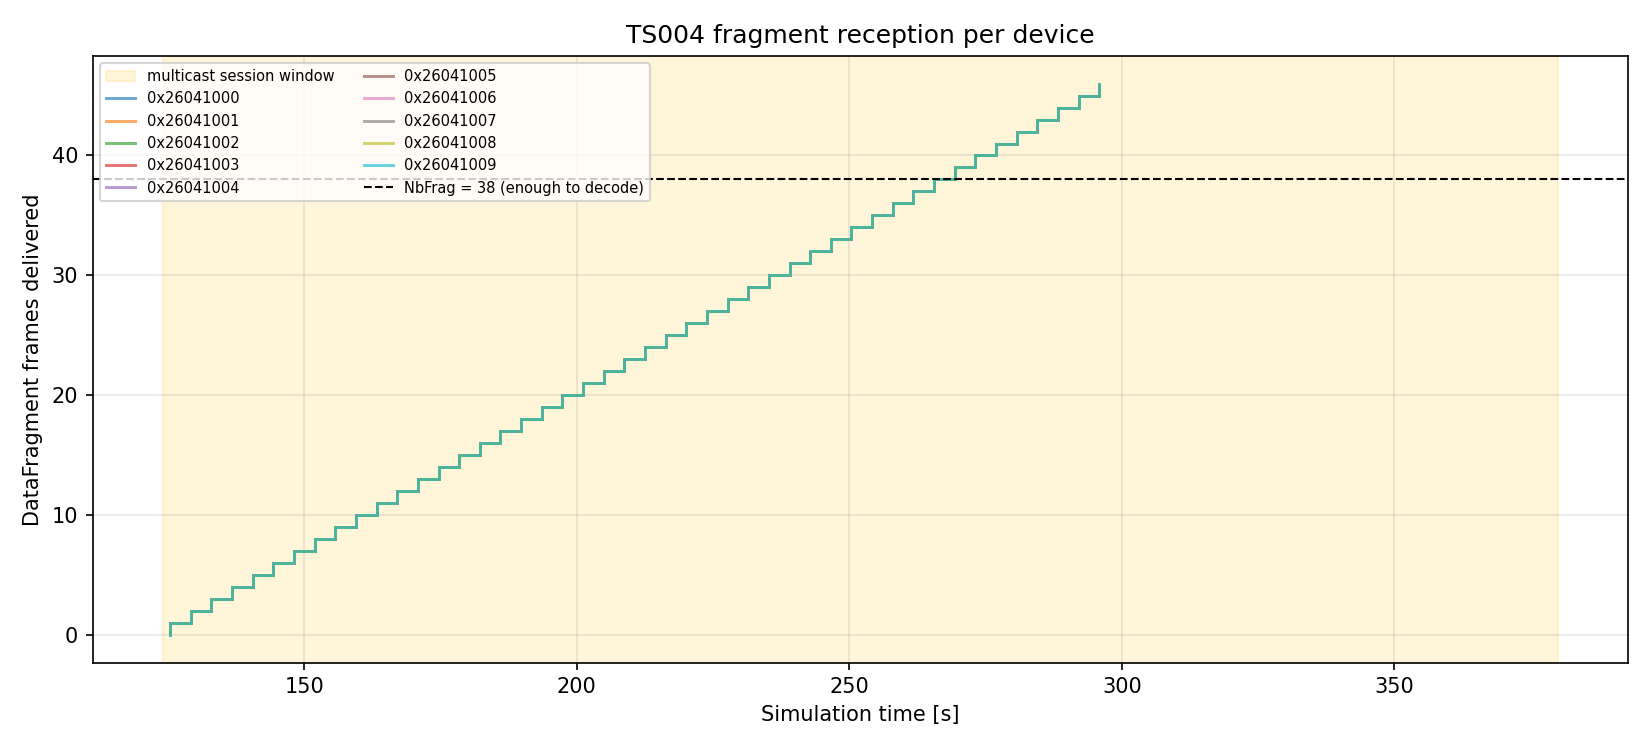
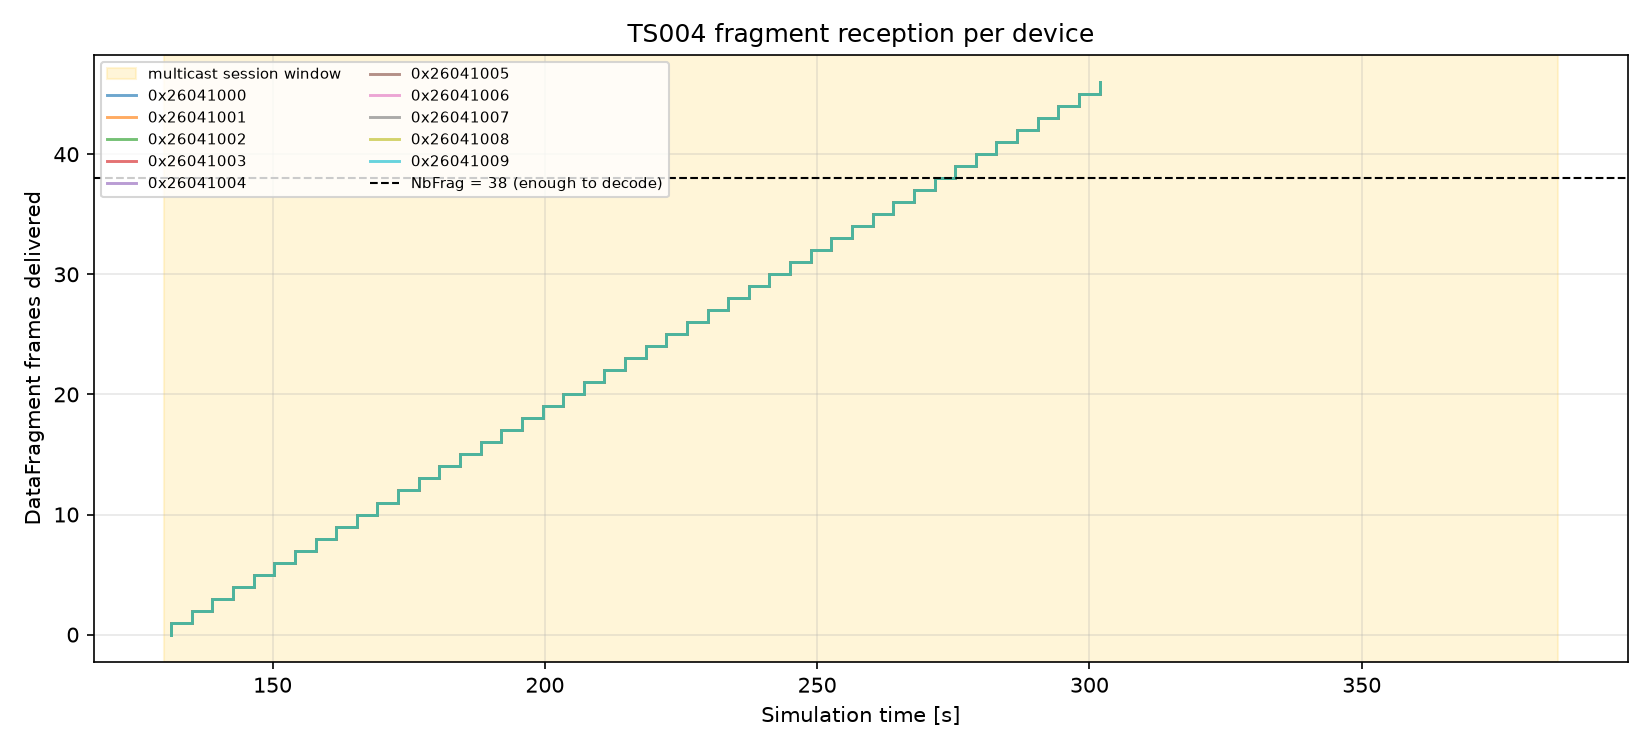
Fixed FUOTA campaign steps not matching

diff --git a/simulator/lorawan/fuota/campaign.py b/simulator/lorawan/fuota/campaign.py
@@ -2,18 +2,27 @@
 Server-side FUOTA campaign orchestration: TS003 + TS005 + TS004, end to end.
 
 Neither TS004 nor TS005 contains a normative end-to-end flow — both describe capabilities
-only. :class:`FuotaCampaign` implements the standard LoRa Alliance FUOTA process assembled
-from the two specs' cross-references plus TS003, and runs it as a single simulation task::
+only. The sequence is the one of LoRa Alliance TR002 "FUOTA Process Summary" Table 3, which
+:class:`FuotaCampaign` runs as a single simulation task::
 
     IDLE
-      -> GROUP_SETUP     McGroupSetupReq to every device          [TS005 §4.3, unicast]
-      -> FRAG_SETUP      FragSessionSetupReq, MIC'd per device    [TS004 §3.3, unicast]
-      -> SESSION_SETUP   McClassC/BSessionReq, SessionTime ahead  [TS005 §4.5/§4.6]
-      -> BROADCAST       DataFragment, N = 1..NbFrag+redundancy   [TS004 §3.6, multicast]
+      -> GROUP_SETUP     McGroupSetupReq to every device          [TR002 step 4, TS005 §4.3]
+      -> SESSION_SETUP   McClassC/BSessionReq, SessionTime ahead  [TR002 step 5, TS005 §4.5/§4.6]
+      -> FRAG_SETUP      FragSessionSetupReq, MIC'd per device    [TR002 step 6, TS004 §3.3]
+      -> BROADCAST       DataFragment, N = 1..NbFrag+redundancy   [TR002 step 8, TS004 §3.6]
       -> STATUS          FragSessionStatusReq / Ans               [TS004 §3.2]
       -> REPAIR*         a new session window and more coded fragments, then STATUS again
       -> CLEANUP         FragSessionDeleteReq (+ McGroupDeleteReq)
       -> DONE | FAILED
+
+TR002 schedules the Class B/C rendezvous (step 5) *before* it sets up the fragmentation
+session (step 6), so ``FragSessionSetupReq`` is delivered inside the lead time before
+``SessionTime`` and the FRAG_SETUP phase is bounded by ``SessionTime`` rather than by
+``setup_timeout``: a device that has not accepted the session by then cannot be fed anyway.
+``session_lead_time`` therefore has to cover one unicast round trip per device on top of the
+margin the session request itself needs. The widespread implementation order — fragmentation
+session first, rendezvous last, which keeps the lead time short — is available with
+:attr:`FuotaCampaignConfig.session_before_frag_setup` set to False.
 
 Every phase is bounded by a timeout and the campaign carries on with whichever devices
 answered, so a silent device costs time but never deadlocks the fleet. A phase that waits
@@ -89,8 +98,8 @@ class FuotaCampaignState(Enum):
 
     IDLE = "IDLE"
     GROUP_SETUP = "GROUP_SETUP"
-    FRAG_SETUP = "FRAG_SETUP"
     SESSION_SETUP = "SESSION_SETUP"
+    FRAG_SETUP = "FRAG_SETUP"
     BROADCAST = "BROADCAST"
     STATUS = "STATUS"
     REPAIR = "REPAIR"
@@ -123,7 +132,15 @@ class FuotaCampaignConfig:
         slots decide the spacing.
     :ivar session_lead_time: Seconds between queueing ``McClassC/BSessionReq`` and
         ``SessionTime``. It must cover at least one uplink interval per device, since the
-        request is only delivered in the RX1 window of a device's own uplink.
+        request is only delivered in the RX1 window of a device's own uplink. In the TR002
+        order (:attr:`session_before_frag_setup`) the whole FRAG_SETUP phase runs inside
+        this lead time as well, so it needs a second round trip per device on top.
+    :ivar session_before_frag_setup: True (the default) follows TR002 Table 3 and schedules
+        the multicast session (step 5) before setting up the fragmentation session (step
+        6); FRAG_SETUP then ends at ``SessionTime`` at the latest. False sets up the
+        fragmentation session first and schedules the rendezvous last, the order ChirpStack
+        and the Semtech reference implementation use, which needs no lead time for the
+        fragmentation setup.
     :ivar setup_timeout: How long each unicast setup phase waits for answers before carrying
         on with whoever answered.
     :ivar status_timeout: How long one status round waits, counted from
@@ -173,6 +190,7 @@ class FuotaCampaignConfig:
     session_lead_time: float = 60.0
     session_answer_margin: float = 2.0
     broadcast_offset: float = 1.0
+    session_before_frag_setup: bool = True
 
     # ---- Fragment pacing (TS004 §3.6) ----
     fragment_interval: float | None = None
@@ -531,6 +549,21 @@ class FuotaCampaign:
             airtime = airtime / self.gateway.duty_cycle.duty_cycle
         return airtime + self.config.fragment_interval_margin
 
+    def planned_fragments(self) -> int:
+        """``NbFrag`` plus the planned redundancy, before the TS004 session exists.
+
+        The TR002 order sizes the session window (``TimeOut``) before FRAG_SETUP has created
+        the server session, so this repeats the arithmetic of
+        :meth:`~simulator.lorawan.fuota.frag_transport.FragmentationServerApplication.create_session`.
+        """
+        cfg = self.config
+        nb_frag = math.ceil(len(self.firmware) / self.frag_size)
+        if cfg.redundancy_ratio is not None:
+            redundancy = math.ceil(nb_frag * max(cfg.redundancy_ratio, 0.0))
+        else:
+            redundancy = cfg.redundancy_fragments or 0
+        return nb_frag + redundancy
+
     def session_timeout_exponent(self, fragments: int) -> int:
         """The TS005 ``TimeOut`` exponent covering a broadcast of *fragments* frames."""
         if self.config.session_timeout is not None:
@@ -623,16 +656,32 @@ class FuotaCampaign:
         if not await self._phase_group_setup():
             return self._fail("no device acknowledged the multicast group")
 
-        self._transition(FuotaCampaignState.FRAG_SETUP)
-        if not await self._phase_frag_setup():
-            return self._fail("no device accepted the fragmentation session")
+        if cfg.session_before_frag_setup:
+            # TR002 Table 3: rendezvous (step 5), then fragmentation session (step 6). The
+            # session window is sized from the planned fragment count, and FRAG_SETUP must
+            # be over before the window opens.
+            self._transition(FuotaCampaignState.SESSION_SETUP)
+            session_time = await self._phase_session_setup(
+                cfg.session_lead_time, self.planned_fragments()
+            )
+            if session_time is None:
+                return self._fail("no device accepted the multicast session")
 
-        self._transition(FuotaCampaignState.SESSION_SETUP)
-        session = self.fragmentation.sessions[cfg.frag_index]
-        planned = session.total_fragments
-        session_time = await self._phase_session_setup(cfg.session_lead_time, planned)
-        if session_time is None:
-            return self._fail("no device accepted the multicast session")
+            self._transition(FuotaCampaignState.FRAG_SETUP)
+            if not await self._phase_frag_setup(
+                deadline=session_time - cfg.session_answer_margin
+            ):
+                return self._fail("no device accepted the fragmentation session")
+        else:
+            self._transition(FuotaCampaignState.FRAG_SETUP)
+            if not await self._phase_frag_setup():
+                return self._fail("no device accepted the fragmentation session")
+
+            self._transition(FuotaCampaignState.SESSION_SETUP)
+            planned = self.fragmentation.sessions[cfg.frag_index].total_fragments
+            session_time = await self._phase_session_setup(cfg.session_lead_time, planned)
+            if session_time is None:
+                return self._fail("no device accepted the multicast session")
 
         self._transition(FuotaCampaignState.BROADCAST)
         await self._phase_broadcast(session_time, start_n=1, count=None)
@@ -690,7 +739,14 @@ class FuotaCampaign:
 
     # ---- Phase 2: fragmentation session setup (TS004 §3.3) ----
 
-    async def _phase_frag_setup(self) -> bool:
+    async def _phase_frag_setup(self, deadline: float | None = None) -> bool:
+        """Set up the TS004 session on every participant and wait for the answers.
+
+        :param deadline: Simulation time by which the phase must be over, whatever
+            ``setup_timeout`` says. The TR002 order passes ``SessionTime`` (less the answer
+            margin): a ``FragSessionSetupReq`` that is still undelivered when the devices
+            go mute for the session window is of no use to anyone.
+        """
         cfg = self.config
         self.fragmentation.create_session(
             sorted(self.participants),
@@ -709,9 +765,10 @@ class FuotaCampaign:
         def acked() -> set[int]:
             return self.fragmentation.devices_acked_setup(cfg.frag_index) & self.participants
 
-        await self._wait_until(
-            lambda: acked() == self.participants, cfg.setup_timeout
-        )
+        timeout = cfg.setup_timeout
+        if deadline is not None:
+            timeout = min(timeout, max(deadline - sim.current_time(), cfg.poll_interval))
+        await self._wait_until(lambda: acked() == self.participants, timeout)
         return self._keep(acked(), FuotaCampaignState.FRAG_SETUP)
 
     # ---- Phase 3: multicast session scheduling (TS005 §4.5/§4.6) ----

diff --git a/tests/test_lorawan_fuota_campaign.py b/tests/test_lorawan_fuota_campaign.py
@@ -276,7 +276,7 @@ def _config(**overrides: object) -> FuotaCampaignConfig:
         data_rate=DATA_RATE,
         redundancy_ratio=None,
         redundancy_fragments=3,
-        session_lead_time=12.0,
+        session_lead_time=18.0,
         session_timeout=8,
         fragment_interval=0.1,
         broadcast_settle=1.0,
@@ -370,11 +370,12 @@ class TestCampaignStateMachine:
         assert campaign.state is FuotaCampaignState.DONE
         assert campaign.done is True
 
+        # TR002 Table 3: group (4), rendezvous (5), fragmentation session (6), broadcast.
         states = [state for (_time, state) in campaign.state_history]
         assert states == [
             FuotaCampaignState.GROUP_SETUP,
-            FuotaCampaignState.FRAG_SETUP,
             FuotaCampaignState.SESSION_SETUP,
+            FuotaCampaignState.FRAG_SETUP,
             FuotaCampaignState.BROADCAST,
             FuotaCampaignState.STATUS,
             FuotaCampaignState.CLEANUP,
@@ -383,6 +384,42 @@ class TestCampaignStateMachine:
         # Transitions are recorded with the time they happened, in order.
         times = [time for (time, _state) in campaign.state_history]
         assert times == sorted(times)
+
+    def test_frag_setup_finishes_before_the_session_window_opens(self):
+        """In the TR002 order FRAG_SETUP is bounded by SessionTime, not by setup_timeout."""
+        fleet = Fleet(config=_config(session_lead_time=18.0, setup_timeout=200.0))
+        fleet.start()
+        sim.run(simulation_length=90)
+
+        campaign = fleet.campaign
+        assert campaign.state is FuotaCampaignState.DONE
+        request = campaign.multicast_setup._last_session_request(0)
+        assert request is not None
+        frag_setup_end = next(
+            time
+            for (time, state) in campaign.state_history
+            if state is FuotaCampaignState.BROADCAST
+        )
+        assert frag_setup_end <= request.session_time
+        # The session window was sized from the planned fragment count, not from a
+        # session that did not exist yet: 20 + 3 fragments at 0.1 s fit 2**3 = 8 s.
+        assert campaign.planned_fragments() == 23
+        assert campaign.fragmentation.sessions[0].total_fragments == 23
+
+    def test_the_legacy_order_sets_up_the_fragmentation_session_first(self):
+        fleet = Fleet(config=_config(session_before_frag_setup=False))
+        fleet.start()
+        sim.run(simulation_length=90)
+
+        campaign = fleet.campaign
+        assert campaign.state is FuotaCampaignState.DONE
+        states = [state for (_time, state) in campaign.state_history]
+        assert states[:4] == [
+            FuotaCampaignState.GROUP_SETUP,
+            FuotaCampaignState.FRAG_SETUP,
+            FuotaCampaignState.SESSION_SETUP,
+            FuotaCampaignState.BROADCAST,
+        ]
 
     def test_all_devices_complete_and_hold_the_firmware(self):
         fleet = Fleet()
@@ -517,7 +554,7 @@ class TestRepairRounds:
                 redundancy_fragments=0,
                 max_repair_rounds=1,
                 repair_extra_fragments=2,
-                session_lead_time=10.0,
+                session_lead_time=18.0,
             )
         )
         # One device loses every fifth fragment: 20 sent, 16 received, 4 missing.
@@ -546,7 +583,7 @@ class TestRepairRounds:
     def test_the_repair_round_continues_the_fragment_index(self):
         fleet = Fleet(
             config=_config(
-                redundancy_fragments=0, max_repair_rounds=1, session_lead_time=10.0,
+                redundancy_fragments=0, max_repair_rounds=1, session_lead_time=18.0,
             )
         )
         fleet.devices[DEV_ADDRS[2]].drop_every = 5
@@ -640,7 +677,7 @@ class TestStatusWaitsForTheSessionWindow:
         defaults: dict[str, object] = dict(
             # 2**6 = 64 s of window for a ~3 s broadcast: the blackout dominates.
             session_timeout=6,
-            session_lead_time=10.0,
+            session_lead_time=18.0,
             status_timeout=15.0,
             device_uplink_interval=1.0,
             cleanup_timeout=20.0,

diff --git a/examples/lorawan_fuota/main.py b/examples/lorawan_fuota/main.py
@@ -220,11 +220,15 @@ def plan_broadcast(args: argparse.Namespace) -> dict[str, float]:
 
 def build_config(args: argparse.Namespace) -> FuotaCampaignConfig:
     """The campaign parameters implied by the command line."""
-    # Every unicast setup command is delivered in the RX1 window of a device's own uplink,
-    # so a phase cannot be faster than one uplink interval per device. Scale the session
-    # lead time with it, otherwise the last device in the fleet never gets to accept the
-    # multicast session before SessionTime arrives.
-    lead_time = max(40.0, 2.0 * args.uplink_interval)
+    # Every unicast setup command is delivered in the RX1 window of a device's own uplink
+    # and answered on the next one, so a unicast round trip costs up to two uplink
+    # intervals. In the TR002 order the lead time before SessionTime has to hold two of
+    # them — the session answer and the whole fragmentation session setup — so it is
+    # sized at four intervals plus a margin; otherwise the last device in the fleet is
+    # still waiting for FragSessionSetupReq when the window opens. A repair round only
+    # repeats the session request, so its lead time is half that.
+    lead_time = max(60.0, 4.0 * args.uplink_interval + 5.0)
+    repair_lead_time = max(40.0, 2.0 * args.uplink_interval + 5.0)
     plan = plan_broadcast(args)
     frag_size = int(plan["frag_size"])
     # The campaign sizes every "wait for an answer" from the uplink interval and from the
@@ -252,7 +256,7 @@ def build_config(args: argparse.Namespace) -> FuotaCampaignConfig:
             cleanup_timeout=max(120.0, 3.0 * args.uplink_interval),
             broadcast_settle=2.0,
             max_repair_rounds=args.repair_rounds,
-            repair_lead_time=max(2 * BEACON_INTERVAL, lead_time),
+            repair_lead_time=max(2 * BEACON_INTERVAL, repair_lead_time),
             repair_extra_fragments=2,
         )
     return FuotaCampaignConfig(
@@ -271,7 +275,7 @@ def build_config(args: argparse.Namespace) -> FuotaCampaignConfig:
         cleanup_timeout=max(90.0, 3.0 * args.uplink_interval),
         broadcast_settle=2.0,
         max_repair_rounds=args.repair_rounds,
-        repair_lead_time=lead_time,
+        repair_lead_time=repair_lead_time,
         repair_extra_fragments=2,
     )
 
@@ -282,8 +286,9 @@ def estimate_class_b_window(
     """When the devices should hold Class B, for a Class B campaign.
 
     ``FuotaDeviceStack`` takes fixed times, so the example has to predict ``SessionTime``:
-    the campaign queues ``McClassBSessionReq`` once the two unicast setup phases are behind
-    it — roughly three uplink intervals, one round trip each — and TS005 §4.6 then rounds
+    the campaign queues ``McClassBSessionReq`` once the multicast group setup is behind it
+    (TR002 order: the fragmentation session is set up *after* the rendezvous, inside the
+    lead time) — roughly two uplink intervals, one round trip — and TS005 §4.6 then rounds
     ``now + session_lead_time`` up to a whole beacon period.
 
     The devices must *not* already be in Class B while that request is being delivered: a
@@ -294,7 +299,7 @@ def estimate_class_b_window(
     Class A once the window has closed so the status round runs over plain RX1 again.
     """
     plan = plan_broadcast(args)
-    setup_done = 3.0 * args.uplink_interval + 2.0
+    setup_done = 2.0 * args.uplink_interval + 2.0
     session_time = (
         math.ceil((setup_done + config.session_lead_time) / BEACON_INTERVAL)
         * BEACON_INTERVAL

diff --git a/tests/test_lorawan_fuota_end_to_end.py b/tests/test_lorawan_fuota_end_to_end.py
@@ -305,7 +305,7 @@ class TestCleanCampaign:
 # (b) Losses, redundancy and a repair round
 # ═══════════════════════════════════════════════════════════════════════════
 
-SIM_LENGTH_LOSSY = 420
+SIM_LENGTH_LOSSY = 440
 
 
 class TestLossyCampaign:
@@ -315,7 +315,7 @@ class TestLossyCampaign:
                 redundancy_fragments=4,
                 max_repair_rounds=2,
                 repair_extra_fragments=2,
-                session_lead_time=30.0,
+                session_lead_time=48.0,  # two unicast round trips for five devices at 12 s (TR002 order)
                 setup_timeout=90.0,
             ),
             firmware=FIRMWARE_2KB,

diff --git a/examples/lorawan_fuota/README.md b/examples/lorawan_fuota/README.md
@@ -54,15 +54,19 @@ the fleet.
    under the device's own `McKEKey`, derived from its `GenAppKey`) and the
    `minMcFCnt`/`maxMcFCnt` window. The device derives `McAppSKey`/`McNwkSKey`, creates the
    multicast context and answers `McGroupSetupAns`.
-2. **FRAG_SETUP** — `FragSessionSetupReq` (TS004 §3.3, CID 0x02): `FragSession` index,
-   `NbFrag`, `FragSize`, `Control` (fragmentation algorithm, `BlockAckDelay`,
-   `AckReception`), `Padding`, `Descriptor`, `SessionCnt` and a 4-octet MIC over the data
-   block computed with the per-device `DataBlockIntKey`. The device allocates memory and
-   answers `FragSessionSetupAns`.
-3. **SESSION_SETUP** — `McClassCSessionReq` (TS005 §4.5, CID 0x04) with `SessionTime`,
+2. **SESSION_SETUP** — `McClassCSessionReq` (TS005 §4.5, CID 0x04) with `SessionTime`,
    a 4-bit `SessionTimeOut` exponent, `DLFreq` and `DR`; or `McClassBSessionReq` (§4.6, CID
    0x05) with `TimeToStart` and `Periodicity` when `--class-b` is given. The device answers
    `McClassC/BSessionAns` and schedules the switch.
+3. **FRAG_SETUP** — `FragSessionSetupReq` (TS004 §3.3, CID 0x02): `FragSession` index,
+   `NbFrag`, `FragSize`, `Control` (fragmentation algorithm, `BlockAckDelay`,
+   `AckReception`), `Padding`, `Descriptor`, `SessionCnt` and a 4-octet MIC over the data
+   block computed with the per-device `DataBlockIntKey`. The device allocates memory and
+   answers `FragSessionSetupAns`. This phase runs inside the session lead time and ends at
+   `SessionTime` at the latest: the order of steps 2 and 3 is the one of TR002 "FUOTA
+   Process Summary" Table 3 (rendezvous first, fragmentation session second).
+   `FuotaCampaignConfig.session_before_frag_setup=False` swaps them, which is what
+   ChirpStack and the Semtech reference code do.
 4. **BROADCAST** — at `SessionTime` the devices switch to Class C (continuous RX) or open
    their ping slots, and the gateway transmits `NbFrag + redundancy` `DataFragment` frames
    (TS004 §3.6, CID 0x08) to `McAddr`, paced by its duty cycle. The redundancy frames are
@@ -137,16 +141,16 @@ The default run (10 devices, 8 kB, DR5, 10% duty cycle, 20% redundancy, no losse
   Uplinks received:     80
 
   Phase durations
-    GROUP_SETUP        25.0 s      FRAG_SETUP     49.0 s     SESSION_SETUP  26.0 s
-    BROADCAST         198.0 s      STATUS        131.0 s     CLEANUP        75.0 s
+    GROUP_SETUP        25.0 s      SESSION_SETUP  25.0 s     FRAG_SETUP     49.0 s
+    BROADCAST         205.0 s      STATUS        132.5 s     CLEANUP        75.0 s
 
-  Campaign total time:  504.0 s
-  Last device complete: 428.6 s
+  Campaign total time:  511.5 s
+  Last device complete: 436.1 s
   Success:              True
 ```
 
 With `--loss 0.2` the 8 coded fragments are no longer enough, two repair rounds add 14 more,
-and all ten devices still finish — 60 fragments scheduled, campaign total 752.5 s. With
+and all ten devices still finish — 60 fragments scheduled, campaign total 767.5 s. With
 `--class-b` the same image goes out through 32 ping slots per 128 s beacon period: 891.5 s,
 10/10 complete.
 
